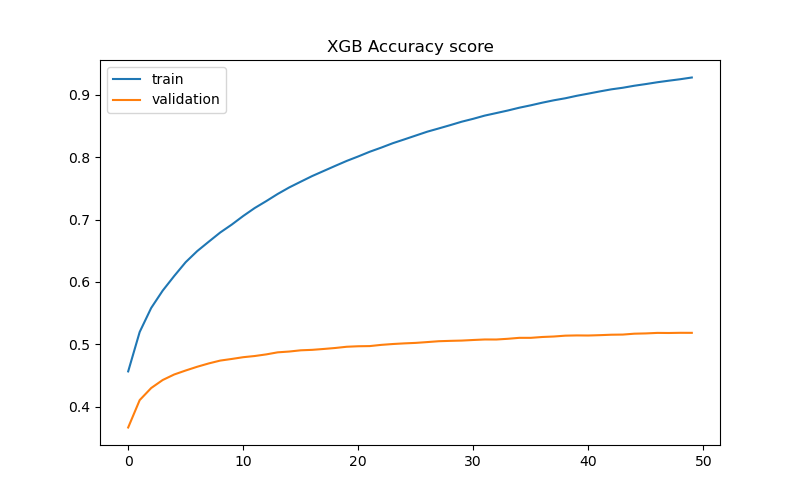
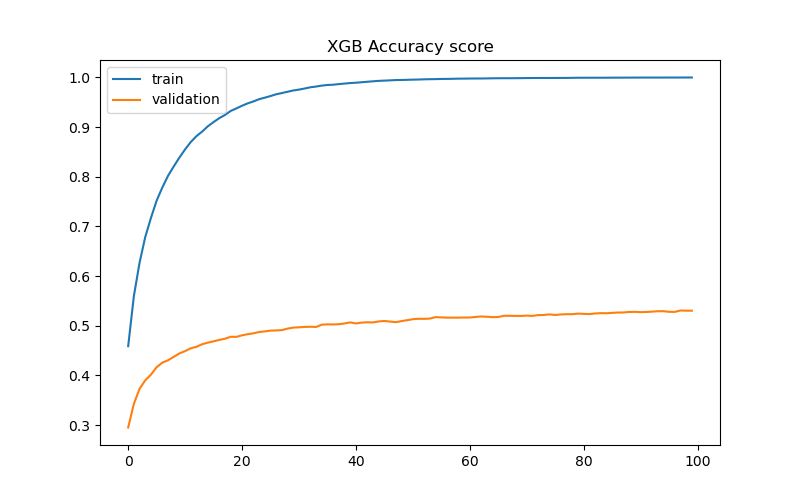
Node2Vec cd

diff --git a/src/models/ml_classifiers/train_model.py b/src/models/ml_classifiers/train_model.py
@@ -16,7 +16,6 @@ from sklearn.model_selection import RandomizedSearchCV
 from sklearn.metrics import accuracy_score
 from sklearnex import patch_sklearn 
 
-
 from omegaconf import DictConfig, OmegaConf
 
 import wandb
@@ -71,7 +70,7 @@ def Run_log_reg(config : DictConfig):
     X_train, y_train, X_valid, y_valid, X_test, y_test = data_split(data,
                                                                     dataset = hparams.dataset.name,
                                                                     scale = hparams["scale"],
-                                                                    to_numpy = True,
+                                                                    to_numpy = False,
                                                                     random_split = hparams.dataset.random_split,
                                                                     stratify = hparams.dataset.stratify)
 
@@ -111,9 +110,6 @@ def Run_log_reg(config : DictConfig):
     train_score, valid_score, test_score = prediction_scores(lr, X_train, y_train, X_valid, y_valid, X_test, y_test)
     wandb.log({"train_score": train_score, "valid_score": valid_score, "test_score": test_score})
     logging.info("Train score %f, Validation score %f, Test score %f" % (train_score, valid_score, test_score))
-    # y_test_pred = lr.predict(X_test)
-    # test_accuracy = accuracy_score(y_test, y_test_pred)
-    # wandb.log({"Test accuracy": test_accuracy})
 
 
 @hydra.main(config_path="../config", config_name="default_config.yaml")
@@ -138,6 +134,13 @@ def train_Nnet(config):
                                                                     to_numpy=False,
                                                                     random_split=hparams.dataset.random_split,
                                                                     stratify=hparams.dataset.stratify)
+    if "EU" in hparams.dataset.name:
+        X_train = torch.from_numpy(X_train).float()
+        X_valid = torch.from_numpy(X_valid).float()
+        X_test = torch.from_numpy(X_test).float()
+        y_train = torch.from_numpy(y_train).long()
+        y_valid = torch.from_numpy(y_valid).long()
+        y_test = torch.from_numpy(y_test).long()
 
     num_classes = len(np.unique(y_train))
 
@@ -311,18 +314,19 @@ def run_XGBoost(config):
     orig_cwd = hydra.utils.get_original_cwd()
     logging.info("Configuration: {0}".format(config["xgb"]["hyperparameters"]))
 
-    data = load_data(hparams.dataset.name, orig_cwd + "/data/raw")
+    if "ogb" in hparams.dataset.name:
+        data = load_data(hparams.dataset.name, orig_cwd + config.root)
+    else:
+        data = load_data(hparams.dataset.name, orig_cwd)
     wandb.log({"dataset": hparams.dataset.name})
     logging.info("Data loaded.")
 
     X_train, y_train, X_valid, y_valid, X_test, y_test = data_split(data,
                                                                     dataset = hparams.dataset.name,
                                                                     scale = hparams["scale"], 
-                                                                    to_numpy=True, 
+                                                                    to_numpy=False, 
                                                                     random_split = True, 
                                                                     stratify = hparams.dataset.stratify)
-
-    # X_train, y_train, X_valid, y_valid, X_test, y_test = X_train[:100], y_train[:100], X_valid[:100], y_valid[:100], X_test[:100], y_test[:100]
 
     xgb.config_context(verbosity = 3)
     evalset = [(X_train, y_train), (X_valid, y_valid)]
@@ -332,7 +336,7 @@ def run_XGBoost(config):
                               min_child_weight  = hparams["min_child_weight"],
                               subsample = hparams["subsample"], colsample_bytree = hparams["colsample_bytree"])
 
-    model.fit(X_train, y_train, early_stopping_rounds=5, eval_metric=['mlogloss', 'merror'], eval_set=evalset, verbose = True)
+    model.fit(X_train, y_train, early_stopping_rounds=10, eval_metric=['mlogloss', 'merror'], eval_set=evalset, verbose = True)
 
     results = model.evals_result()
 
@@ -389,4 +393,4 @@ def run_SVM(config):
 
 if __name__ == "__main__":
 
-    train_Nnet()
+    run_XGBoost()

diff --git a/src/models/utils.py b/src/models/utils.py
@@ -57,20 +57,20 @@ def data_split(data, dataset, scale = False, to_numpy = False, random_split = Fa
 
         # if random_split:
 
-        X_train = data.x[data["train_mask"]].float()
-        y_train = data.y[data["train_mask"]]
-        X_valid = data.x[data["valid_mask"]].float()
-        y_valid = data.y[data["valid_mask"]]
-        X_test = data.x[data["test_mask"]].float()
-        y_test = data.y[data["test_mask"]]
+        # X_train = data.x[data["train_mask"]].float()
+        # y_train = data.y[data["train_mask"]]
+        # X_valid = data.x[data["valid_mask"]].float()
+        # y_valid = data.y[data["valid_mask"]]
+        # X_test = data.x[data["test_mask"]].float()
+        # y_test = data.y[data["test_mask"]]
         
 
-            # if stratify:
-                # X_train, X_test, y_train, y_test = train_test_split(data[0], data[1], test_size=0.2, random_state=0, stratify = data[1])
-                # X_train, X_valid, y_train, y_valid = train_test_split(X_train, y_train, test_size=0.25, random_state=0, stratify = y_train) # 0.25 x 0.8 = 0.2
-            # else:
-                # X_train, X_test, y_train, y_test = train_test_split(data[0], data[1], test_size=0.2, random_state=0)
-                # X_train, X_valid, y_train, y_valid = train_test_split(X_train, y_train, test_size=0.25, random_state=0) # 0.25 x 0.8 = 0.2
+            if stratify:
+                X_train, X_test, y_train, y_test = train_test_split(data[0], data[1], test_size=0.2, random_state=0, stratify = data[1])
+                X_train, X_valid, y_train, y_valid = train_test_split(X_train, y_train, test_size=0.25, random_state=0, stratify = y_train) # 0.25 x 0.8 = 0.2
+            else:
+                X_train, X_test, y_train, y_test = train_test_split(data[0], data[1], test_size=0.2, random_state=0)
+                X_train, X_valid, y_train, y_valid = train_test_split(X_train, y_train, test_size=0.25, random_state=0) # 0.25 x 0.8 = 0.2
 
     if scale:
             x_mean, x_std = X_train.mean(), X_train.std()
@@ -86,10 +86,10 @@ def data_split(data, dataset, scale = False, to_numpy = False, random_split = Fa
         X_test = X_test.numpy()
         y_test = y_test.numpy().ravel()
 
-    else:
-        y_train = y_train.long().reshape(-1)
-        y_valid = y_valid.long().reshape(-1)
-        y_test = y_test.long().reshape(-1)
+    # else:
+    #     y_train = y_train.long().reshape(-1)
+    #     y_valid = y_valid.long().reshape(-1)
+    #     y_test = y_test.long().reshape(-1)
 
     return X_train, y_train, X_valid, y_valid, X_test, y_test
 

diff --git a/src/data/make_dataset.py b/src/data/make_dataset.py
@@ -2,6 +2,7 @@
 import os
 import pandas as pd
 import torch
+import numpy as np
 import torch_geometric.data  # type: ignore
 from ogb.nodeproppred import PygNodePropPredDataset
 
@@ -17,11 +18,11 @@ def load_data(dataset_name: str, root: str) -> torch_geometric.data.Data:
         dataset = PygNodePropPredDataset(name=dataset_name, root=root)
         return dataset
     else:
-        dataset = torch.load(root + "/data/processed/EU_graph.pt")
+        # dataset = torch.load(root + "/data/processed/EU_graph.pt")
         print(os.getcwd())
-        # links = pd.read_csv(root + "/data/processed/eu_links_lang_gcc.csv", index_col = 0, parse_dates = [4, 10])
-        # cases = pd.read_csv(root + "/data/processed/eu_cases_lang_gcc.csv", index_col = 0, parse_dates = [5, 6])
-        # X = np.load(root + "/data/processed/paragraph_embeddings.npy")
-        # y = np.load(root + "/data/processed/targets.npy")
+        # links = pd.read_csv(root + "/data/processed/links_gcc_final.csv", index_col = 0, parse_dates = [4, 10])
+        # cases = pd.read_csv(root + "/data/processed/cases_gcc_final.csv", index_col = 0, parse_dates = [5, 6])
+        X = np.load(root + "/data/processed/paragraph_embeddings_final.npy")
+        y = np.load(root + "/data/processed/targets_final.npy")
 
-        return dataset
+        return X, y

diff --git a/src/models/paragraph_embeddings.py b/src/models/paragraph_embeddings.py
@@ -116,7 +116,7 @@ def train_NNet(X_train, y_train, X_valid, y_valid, X_test, y_test, hparams):
         valid_acc.append(valid_acc_cur)
         
         # if epoch % 10 == 0:
-        logging.info("Epoch %2i : Train loss %f, Valid loss %f, Train acc %f, Valid acc %f" % (
+        logging.info("Epoch %2i: Train loss %f, Valid loss %f, Train acc %f, Valid acc %f" % (
                     epoch+1, train_losses[-1], valid_losses[-1], train_acc_cur, valid_acc_cur))
 
         wandb.log({"ffnn_train_loss": train_losses[-1].item(), "ffnn_train_acc": train_acc_cur, "ffnn_valid_acc": valid_acc_cur})
@@ -213,6 +213,8 @@ def classify(config):
     links, cases = load_data(hparams.dataset.name, orig_cwd)
 
     sentences = prepare_sentences(links, cases)
+
+    y = sentences.Category_encoded.values
 
     X = generate_embeddings(sentences, hparams)
     logging.info("Embeddings generated.")
